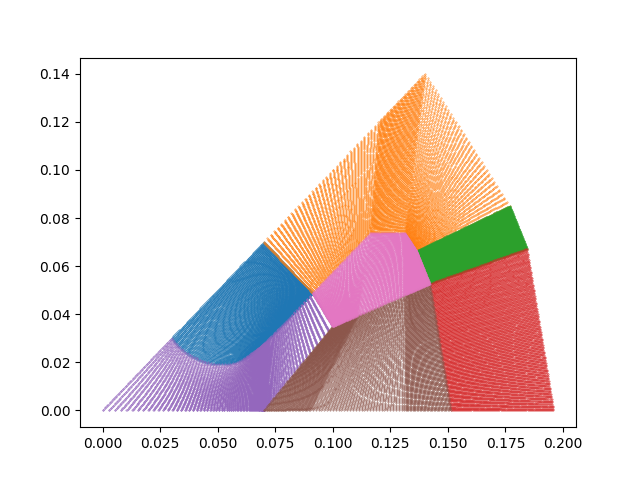
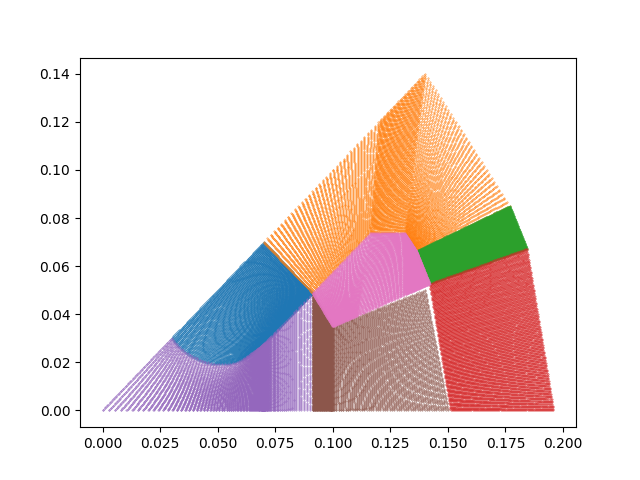
redid patches

Changed region(s): [[0.4062, 0.5938, 0.7188, 0.875]]

diff --git a/mke_geo.py b/mke_geo.py
@@ -230,48 +230,6 @@ def mke_double_patch(key, scale = 1):
         weights[1,-1] = np.sin((np.pi-alpha)/2)
         return knots, weights
 
-    def mke_air_domains(knots_pole, knots_iyr_mid, knots_iyr_low):
-        a1 = knots_pole[0,1,:]
-        a2 = knots_pole[1,-1,:]
-        a3 = knots_pole[-1,-1,:]
-
-        k1 = np.array([0.10, 0.035])
-        k2 = knots_iyr_mid[1,-1,:]
-        k3 = np.array([a3[0],0]) 
-        k4 = knots_iyr_low[1,-1,:]
-        f = lambda t : k1 + t*(k2-k1)
-        f2 = lambda t : k3 + t*(k4-k3)
-
-        knots_as = np.array([a1, a2, a3])
-        knots = np.array([[[0,0],[a2[0],0],[a3[0],0]]])
-        knots = np.concatenate((knots, knots_as[np.newaxis,:]))
-        print(knots)
-        weights = np.ones(knots.shape[:2])
-        weights[1,1] = np.sin((np.pi-alpha)/2)
-
-        basisx = src.bspline.BSplineBasisJAX(np.linspace(-1,1,2),1)
-        basisy = src.bspline.BSplineBasisJAX(np.array([-1,1]),2)
-        air_1 = src.geometry.PatchNURBSParam([basisx, basisy], knots, weights, 0, 2, key)
-
-        knots_bottom = np.array([k1, [a3[0],0]]) 
-        knots_top = np.array([[d4x+offset,d4y+offset], a3])
-        knots = np.concatenate((knots_top[None,...],knots_bottom[None,...]),0)
-        weights = np.ones(knots.shape[:2])
-
-        basisx = src.bspline.BSplineBasisJAX(np.linspace(-1,1,2),1)
-        basisy = src.bspline.BSplineBasisJAX(np.linspace(-1,1,2),1)
-        air_2 = src.geometry.PatchNURBSParam([basisx, basisy], knots, weights, 0, 2, key)
-
-        knots_air3_upper = np.array([f(1), f(0.75), f(0.25), f(0)])
-        knots_air3_lower = np.array([f2(1), f2(0.75), f2(0.25), f2(0)])
-        knots_air3 = np.concatenate((knots_air3_upper[None,...], knots_air3_lower[None,...]),0)
-        weights = np.ones(knots_air3.shape[:2])
-
-        basisx = src.bspline.BSplineBasisJAX(np.linspace(-1,1,2),1)
-        basisy = src.bspline.BSplineBasisJAX(np.array([-1,-0.33,0.33,1]),1)
-        air_3 = src.geometry.PatchNURBSParam([basisx, basisy], knots_air3, weights, 0, 2, key)
-        return air_1, air_2, air_3, knots_air3 
-
     knots, weights = mke_complete_ironyoke(knots_outer, offset, d4x, d4y, rotation_mat) 
     weights_pole = weights[:,-2:None]
     knots_pole = knots[:,-2:None,:] 
@@ -309,6 +267,8 @@ def mke_double_patch(key, scale = 1):
     basisy = src.bspline.BSplineBasisJAX(np.linspace(-1,1,2),1)
     air_2 = src.geometry.PatchNURBSParam([basisx, basisy], knots, weights, 0, 2, key)
 
+
+
     ys = np.linspace(-1,1,100)
     xx,yy = np.meshgrid(ys, ys)
     input_vec = np.concatenate((xx.flatten()[:,np.newaxis], yy.flatten()[:,np.newaxis]), axis = 1)
@@ -323,7 +283,7 @@ def mke_double_patch(key, scale = 1):
     
     pts = [air_2_pts, air_1_pts]
     knots_list = [knots_air2, knots_air1]
-    #[plt.scatter(i[:,0], i[:,1], s = 0.1) for i in pts]
+    # [plt.scatter(i[:,0], i[:,1], s = 0.1) for i in pts]
     # [plt.scatter(i[:,0], i[:,1], c = "r") for i in knots_list]
     insert_knots = np.concatenate((knots2[[1],[0],:], knots2[[0],[0],:]))
     insert_knots = insert_knots[:,np.newaxis,:]
@@ -337,7 +297,8 @@ def mke_double_patch(key, scale = 1):
     knots_top[:,1,1] = 0.01
     knots_top[:,1,0] = 0.045
     knots_bot[:,1,0] = 0.045
-    print(knots_top[:,1,:])
+    knots_bot[:,-1,1] = 0
+    knots_bot[:,-1,0] = knots_top[:,-1,0]
     
 
     #knots_top = np.concatenate((knots_top[:,0:-1,:], 0.5*(knots_top[:,[2],:] + knots_top[:,[3],:]), knots_top[:,[3],:]), axis = 1)
@@ -371,24 +332,71 @@ def mke_double_patch(key, scale = 1):
     air_c = src.geometry.PatchNURBSParam([basis1, basis2], knots, weights, 0, 2, key)
     air_c_pts = air_c.__call__(input_vec)
     air_c_pts, diffs = air_c.importance_sampling(10000)
+    print(np.sum(diffs))
+    
+
+    knots_bair3 = np.array([[0.0912132, 0], [0.1, 0], [0.15, 0]])
+    knots_bair3 = knots_bair3[np.newaxis, :,:]
+    knots_tair3 = np.array([[0.0912132, 0.0487868], [0.1, 0.035], [0.14, 0.05]])
+    knots_tair3 = knots_tair3[np.newaxis, :,:]
+    
+    knots_mid = 0.5*(knots_bair3 + knots_tair3) 
+    knots = np.concatenate((knots_bair3, knots_mid, knots_tair3), axis = 0)
+    weights = np.ones(knots.shape[:2])
+    basis1b = src.bspline.BSplineBasisJAX(np.array([-1,0,1]),1)
+    basis1c = src.bspline.BSplineBasisJAX(np.array([-1,0,1]),1)
+
+    air_rest = src.geometry.PatchNURBSParam([basis1b, basis1c], knots, weights, 0, 2, key)
+    air_rest_pts, diffs = air_rest.importance_sampling(10000)
+    print(np.sum(diffs))
     plt.scatter(air_c_pts[:,0], air_c_pts[:,1], s = 0.1)
-    plt.scatter(knots_plot[:,0], knots_plot[:,1])
+    plt.scatter(air_rest_pts[:,0], air_rest_pts[:,1], s = 0.1)
     plt.savefig('./combined_scatter.png')
-    return air_c
+
+    return air_c, air_rest
+
+
+def sample_bnd(N):
+    ys = np.linspace(-1,1,100)
+    ys = ys[:,np.newaxis]
+    one_vec = np.ones_like(ys)
+
+    ys_top = np.concatenate((ys, one_vec), axis = 1)
+    ys_bottom = np.concatenate((ys, -1 * one_vec), axis = 1)
+
+    ys_left = np.concatenate((-1* one_vec, ys), axis = 1) 
+    ys_right = np.concatenate((one_vec, ys), axis = 1) 
+    bnd_pts = np.array([ys_top, ys_right, ys_bottom, ys_left])
+    bnd_pts = np.reshape(bnd_pts, (bnd_pts.shape[0]*bnd_pts.shape[1], 2))
+    return [ys_right, ys_bottom, ys_left, ys_top] 
 
 
 
-
-air_c = mke_double_patch(rnd_key)
+bnd_samples = sample_bnd(1000)
+air_c, air_rest = mke_double_patch(rnd_key)
 iron_pole, iron_yoke, iron_yoke_r_mid, iron_yoke_r_low, _, _, air_3, current  = create_geometry(rnd_key)
-geoms = [iron_pole, iron_yoke, iron_yoke_r_mid, iron_yoke_r_low, air_c, air_3, current]
+geoms = [iron_pole, iron_yoke, iron_yoke_r_mid, iron_yoke_r_low, air_c, air_rest, current]
 ys = np.linspace(-1,1,100)
 xx,yy = np.meshgrid(ys, ys)
 input_vec = np.concatenate((xx.flatten()[:,np.newaxis], yy.flatten()[:,np.newaxis]), axis = 1)
 plt.figure()
 [plt.scatter(i.__call__(input_vec)[:,0], i.__call__(input_vec)[:,1], s=0.1) for i in geoms]
+#[plt.scatter(air_rest.__call__(i)[:,0], air_rest.__call__(i)[:,1]) for i in bnd_samples]
 plt.savefig('./patched_up.png')
 exit()
+
+
+
+
+
+
+
+
+
+
+
+
+
 
 
 
